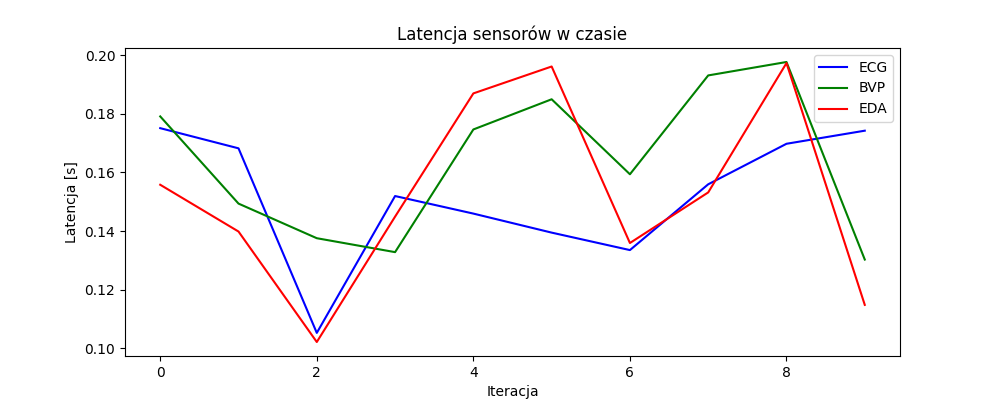
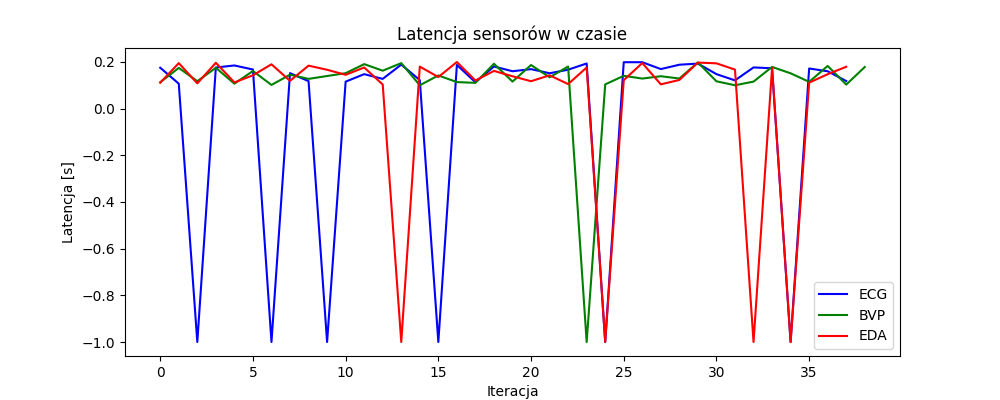
Dodanie scenariusza zaburzen i raportu

diff --git a/app.py b/app.py
@@ -11,6 +11,9 @@ from flask import Flask, render_template, Response
 from flask_sqlalchemy import SQLAlchemy
 
 from reportlab.pdfgen import canvas
+
+import matplotlib
+matplotlib.use('Agg')
 import matplotlib.pyplot as plt
 
 app = Flask(__name__)
@@ -91,20 +94,34 @@ def pass_ecg_data():
     offset_ecg = 0
     while True:
         random_delay = random.uniform(0.1, 0.2)
-        with app.app_context():
-            records = SensorData.query.filter_by(sensor='ECG').offset(offset_ecg).limit(70).all()
-            q.put([{'sensor': r.sensor, 'value': r.value} for r in records])
-            db.session.add(StreamLog(
-                sensor='ECG',
-                timestamp=datetime.now(),
-                latency_ms= random_delay
-            ))
-            db.session.commit()
-            offset_ecg += 70
-            if offset_ecg >= 70000:
-                offset_ecg = 0
+        random_data_loss = random.uniform(0,1)
+        if random_data_loss > 0.1:
+            with app.app_context():
+                records = SensorData.query.filter_by(sensor='ECG').offset(offset_ecg).limit(70).all()
+                q.put([{'sensor': r.sensor, 'value': r.value} for r in records])
+                db.session.add(StreamLog(
+                    sensor='ECG',
+                    timestamp=datetime.now(),
+                    latency_ms= random_delay
+                ))
+                db.session.commit()
+
+        else:
+            with app.app_context():
+                db.session.add(StreamLog(
+                        sensor='ECG',
+                        timestamp=datetime.now(),
+                        latency_ms= -1
+                    ))
+                db.session.commit()
+
+        offset_ecg += 70
+        if offset_ecg >= 70000:
+            offset_ecg = 0
 
         time.sleep(0.1 + random_delay)
+
+    
 
 
 def pass_bvp_data():
@@ -112,19 +129,31 @@ def pass_bvp_data():
 
     while True:
         random_delay = random.uniform(0.1,0.2)
-        with app.app_context():
-            records = SensorData.query.filter_by(sensor='BVP').offset(offset_bvp).limit(6).all()
-            q.put([{'sensor': r.sensor, 'value': r.value} for r in records])
-            db.session.add(StreamLog(
-                sensor='BVP',
-                timestamp=datetime.now(),
-                latency_ms= random_delay
-            ))
-            db.session.commit()
-            offset_bvp += 6
+        random_data_loss = random.uniform(0,1)
 
-            if offset_bvp >= 6400:
-                offset_bvp = 0
+        if random_data_loss > 0.1:
+            with app.app_context():
+                records = SensorData.query.filter_by(sensor='BVP').offset(offset_bvp).limit(6).all()
+                q.put([{'sensor': r.sensor, 'value': r.value} for r in records])
+                db.session.add(StreamLog(
+                    sensor='BVP',
+                    timestamp=datetime.now(),
+                    latency_ms= random_delay
+                ))
+                db.session.commit()
+
+        else:
+            with app.app_context():
+                db.session.add(StreamLog(
+                        sensor='BVP',
+                        timestamp=datetime.now(),
+                        latency_ms= -1
+                    ))
+                db.session.commit()
+        offset_bvp += 6
+
+        if offset_bvp >= 6400:
+            offset_bvp = 0
         time.sleep(0.1 + random_delay)
 
 def pass_eda_data():
@@ -132,27 +161,39 @@ def pass_eda_data():
 
     while True:
         random_delay = random.uniform(0.1, 0.2)
-        with app.app_context():
-            records = SensorData.query.filter_by(sensor='EDA').offset(offset_eda).limit(1).all()
-            q.put([{'sensor': r.sensor, 'value': r.value} for r in records])
-            db.session.add(StreamLog(
-                sensor='EDA',
-                timestamp=datetime.now(),
-                latency_ms= random_delay
-            ))
-            db.session.commit()
-            offset_eda += 1
+        random_data_loss = random.uniform(0,1)
 
-            if offset_eda >= 400:
-                offset_eda = 0
+        if random_data_loss > 0.1:
+            with app.app_context():
+                records = SensorData.query.filter_by(sensor='EDA').offset(offset_eda).limit(1).all()
+                q.put([{'sensor': r.sensor, 'value': r.value} for r in records])
+                db.session.add(StreamLog(
+                    sensor='EDA',
+                    timestamp=datetime.now(),
+                    latency_ms= random_delay
+                ))
+                db.session.commit()
+
+        else:
+            with app.app_context():
+                db.session.add(StreamLog(
+                        sensor='EDA',
+                        timestamp=datetime.now(),
+                        latency_ms= -1
+                    ))
+                db.session.commit()
+        offset_eda += 1
+
+        if offset_eda >= 400:
+            offset_eda = 0
         time.sleep(0.1 + random_delay)
 
 def generate_report():
     time.sleep(10)
     with app.app_context():
-        logs_etc = StreamLog.query.filter_by(sensor='ECG').limit(10).all()
-        logs_bvp = StreamLog.query.filter_by(sensor='BVP').limit(10).all()
-        logs_eda = StreamLog.query.filter_by(sensor='EDA').limit(10).all()
+        logs_etc = StreamLog.query.filter_by(sensor='ECG').limit(100).all()
+        logs_bvp = StreamLog.query.filter_by(sensor='BVP').limit(100).all()
+        logs_eda = StreamLog.query.filter_by(sensor='EDA').limit(100).all()
 
         latency_ecg = [log.latency_ms for log in logs_etc]
         latency_bvp = [log.latency_ms for log in logs_bvp]
@@ -177,8 +218,19 @@ def generate_report():
     c.drawString(400,780, "Rafal Kruszewski")
     c.drawString(100,700, "Pomiary latencji")
     c.drawImage('latency_chart.png', 50, 350, width=500, height=300)
-    c.save()
+    c.drawString(50, 330, "Latencja w systemie agregacji danych z wielu sensorów " \
+    "to czas miedzy momentem gdy sensor ")
+    c.drawString(50, 315,"wygenerowal probke a momentem gdy dane zostaly wyslane " \
+    "do odbiorcy")
 
+    c.drawString(50,300, "W tym projekcie latencja jest symulowana przez losowe " \
+    "opoznienie random_delay dodawane do ")
+    c.drawString(50,285, "bazowego interwalu 100ms kazdego watku, reprezentuje niestabilnosc " \
+    "lacza miedzy")
+    c.drawString(50,270, "sensorem a serwerem, w rzeczywistych systemach " \
+    "latencja zalezy od np. jakosci polaczenia")
+    c.save()
+    
 
 
 ecg_thread = threading.Thread(target=pass_ecg_data).start()
